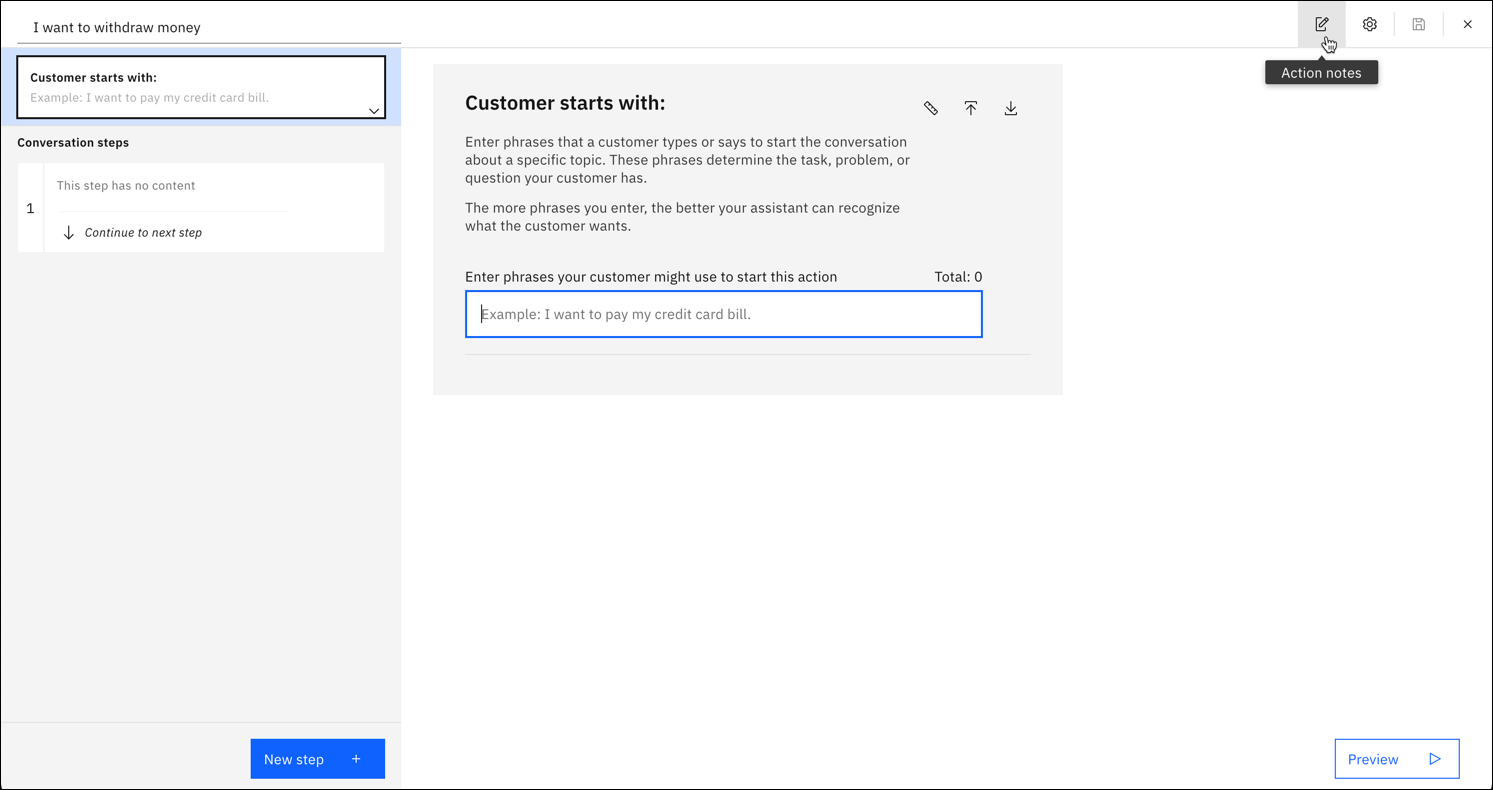
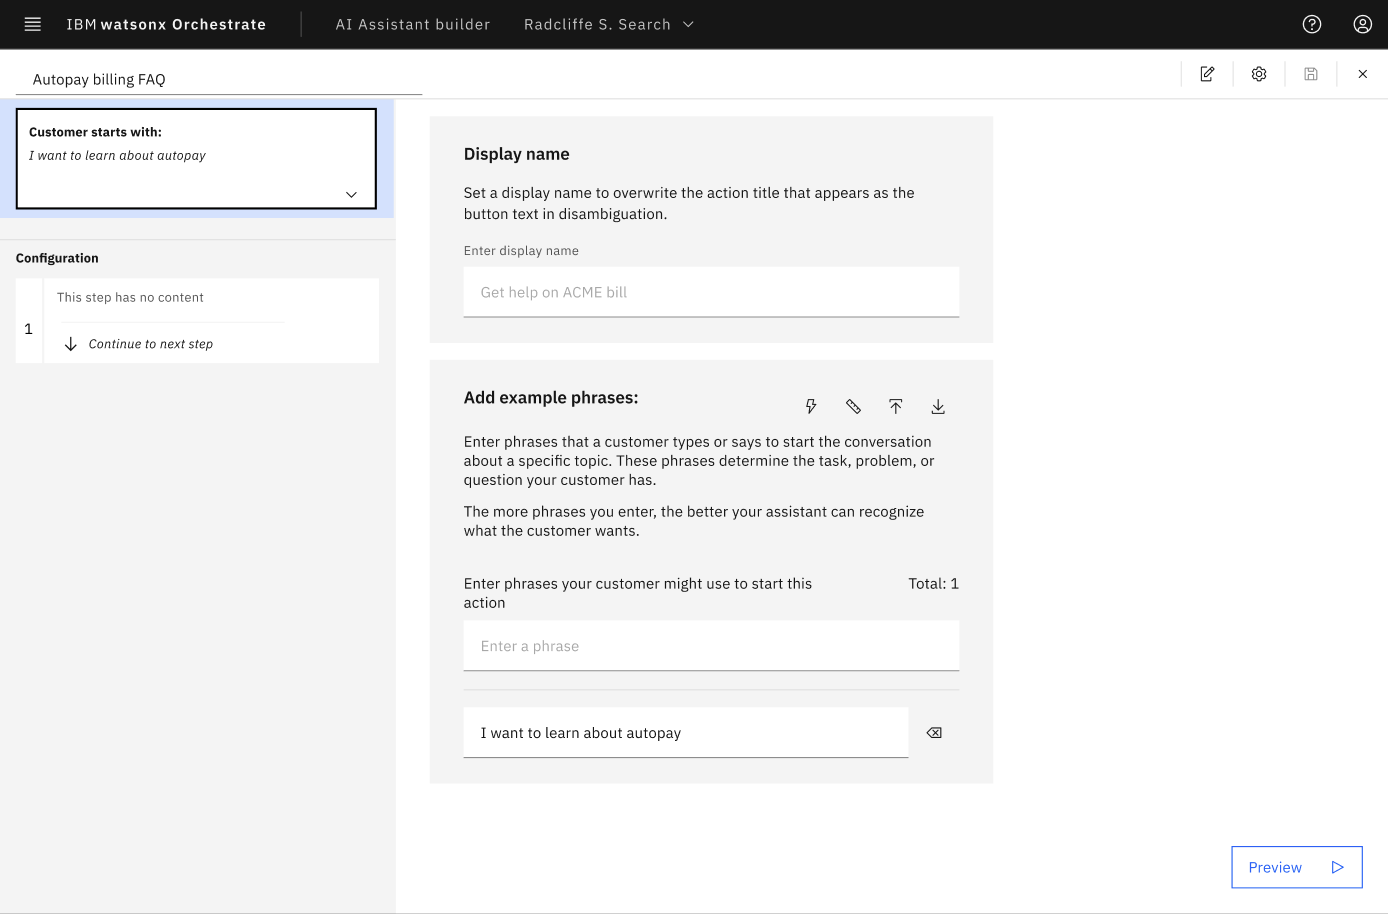
Update: 08-04-2025

diff --git a/build-actions-overview.md b/build-actions-overview.md
@@ -2,7 +2,7 @@
 
 copyright:
   years: 2018, 2025
-lastupdated: "2025-01-03"
+lastupdated: "2025-04-08"
 
 subcollection: watson-assistant
 
@@ -54,7 +54,9 @@ After you create the action, the action editor opens.
 
 The editor window shows the parts of an action:
 
-- The **Customer starts with:** tile shows the customer input that starts the action. You can click this tile to edit the example text or add more examples, but we'll leave it as is for now.
+- The assistant shows the **Display name** to the user when their question triggers a clarification.
+
+- The **Add example phrases:** tile shows the customer input that starts the action. You can click this tile to edit the example text.
 
 - Under **Conversation steps**, you can see the steps that make up the action. A step is an interaction between the assistant and the customer; steps are executed in order, from first to last. You can reorder the steps in an action by clicking and dragging steps in the list.
 
@@ -208,13 +210,13 @@ To do this summary, we need to insert action variables (representing customer re
 
 1. Because this is the last step in the action, you don't need to specify any customer response.
 
-If you decide a step is no longer needed, you can delete it from the action. To delete a step, click the **Delete** ![Delete step icon](../../icons/delete.svg) icon on the tile for the step.
+If you decide a step is no longer needed, you can delete it from the action. To delete a step, click the **Delete** ![Delete step icon](images/step-delete-icon.png) icon on the tile for the step.
 {: tip}
 
 ## Testing the action
 {: #build-actions-overview-test}
 
-We can now test the action to make sure it's working. Click **Preview** to open the Preview pane. (If the text from a previous test is still shown, click the **Refresh** ![Preview refresh icon](../../icons/restart.svg) icon to restart the conversation.)
+You can now test the action to make sure it works. Click **Preview** to open the Preview pane. If the text from a previous test still appears, click the **Refresh** ![Preview refresh](images/new-action-refresh.png) icon to restart the conversation.
 
 Start by typing `I want to withdraw money`. Try various permutations of your input to test how the assistant behaves:
 
@@ -225,6 +227,30 @@ Start by typing `I want to withdraw money`. Try various permutations of your inp
 - Try including additional information in your initial message. For example, try typing `I want to withdraw $50 from my savings account`. Confirm that the assistant does not ask you again to specify the information you already provided.
 
 That's it! You built a simple action that includes multiple steps, collects information that it stores as action variables, and conditions its responses based on what your customer chooses. There is a lot more you can do with actions, but all of it is built on this basic pattern.
+
+## Renaming an action
+
+If you want to rename your action, do the following steps:
+
+![Renaming an action](images/action-rename.png){: caption="Rename action" caption-side="bottom"}
+
+1. Click the **Overflow** menu ![Overflow icon](images/overflow-menu--vertical.svg) on the action that you want to rename, and select **Rename**.
+
+1. Click the **Action title** field to change the action title that you see.
+
+1. Click the **Display name** field to change the action title that the user sees.
+
+## Filtering an action
+
+If you want to search for an action, do the following steps:
+
+![Filtering an action](images/action-filter.png){: caption="Filter action" caption-side="bottom"}
+
+1. Click on the search bar, on your action main page.
+
+1. Type either the action **Title** or the action **Display name**.
+
+1. Select the action.
 
 ## Action limits
 {: #build-actions-limits}
